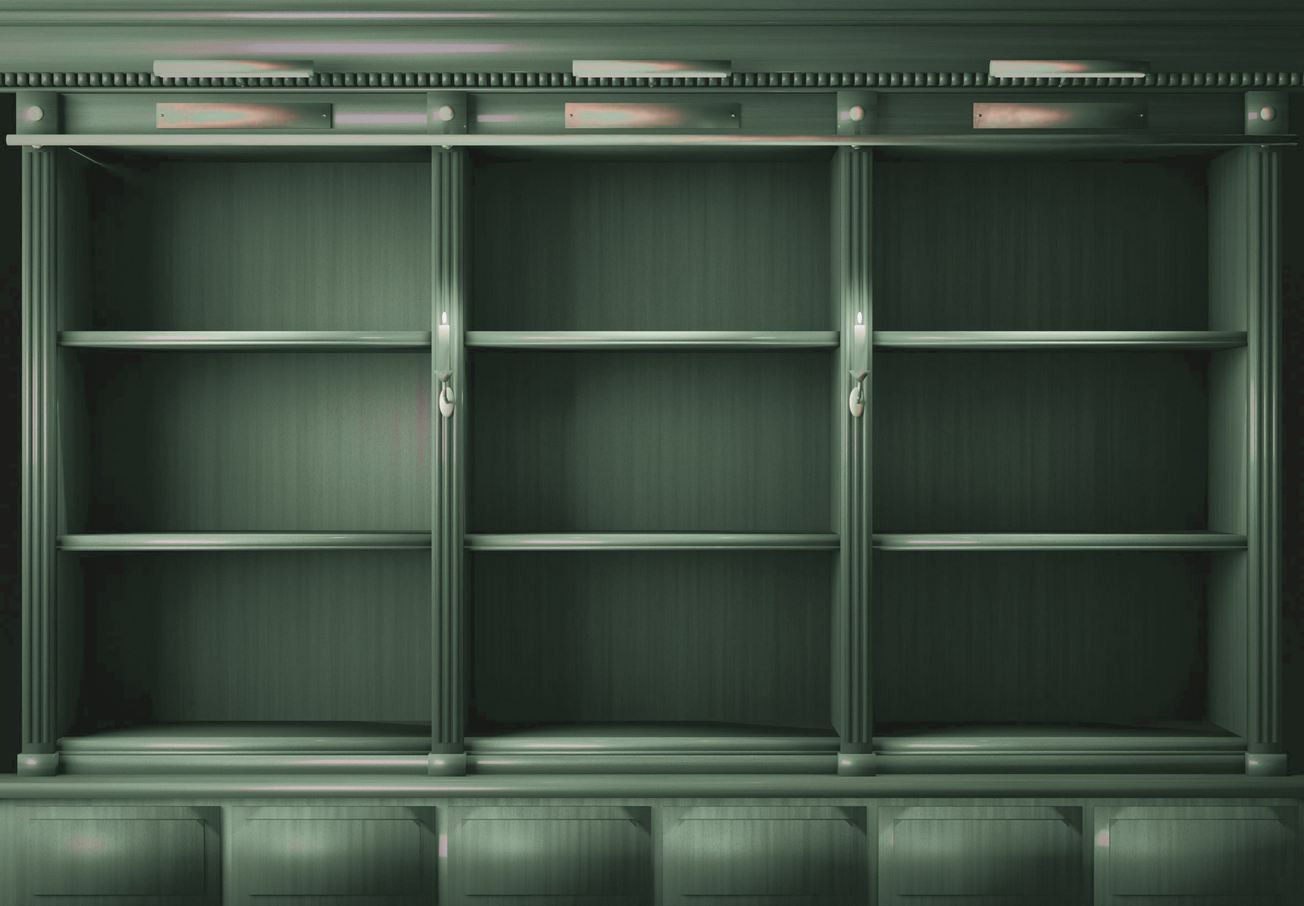
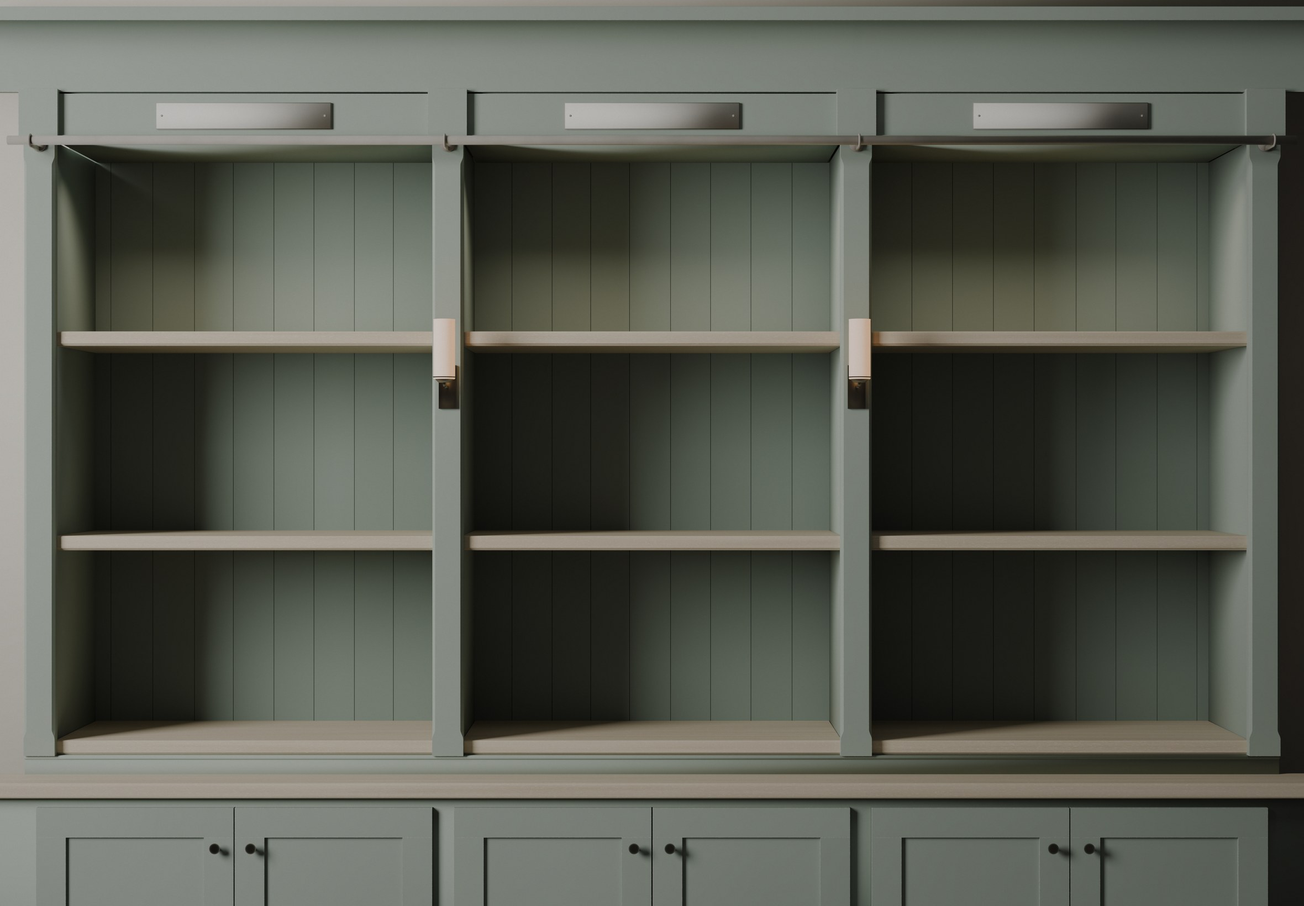
Sage theme: natively rendered painted-oak library replacing the tinted Sage & Rose
New Blender scenes (scene_wall_sage, scene_spines_sage, Sage branches of
scene_cat/scene_book), pewter/porcelain/bookcloth materials, rag paper,
per-theme geometry and ink-lettered bindings. Wisteria hidden from the picker.

diff --git a/index.html b/index.html
@@ -909,9 +909,46 @@ body.portrait:not(.compact) .topbar .lbl{display:none}
 .themecard .tdots i{width:14px;height:14px;border-radius:50%;box-shadow:0 0 0 1px rgba(255,255,255,.25)}
 .themecard .tcheck{position:absolute;right:12px;top:10px;color:var(--gilt);font:600 16px var(--f-ui)}
 
+
 /* ---- colour themes ---- */
-:root[data-theme=wisteria]{--c0:234,227,224;--c1:169,155,185;--c2:121,103,145;--c3:196,197,213;--c4:130,131,155;--c5:33,25,36;--c6:84,85,106;--c7:122,54,88;--c8:22,16,24;--c9:15,11,17;--c10:13,9,15;--c11:31,23,34;--c12:33,25,36;--c13:195,196,212;--c14:40,31,44;--c15:243,234,220;--c16:25,19,27;--c17:43,33,47;--c18:53,42,64;--c19:104,105,127;--c20:237,229,224;--c21:211,212,226;--c22:187,188,206;--c23:106,44,75;--c24:245,238,230;--c25:161,146,180;--c26:35,27,39;--c27:34,26,37;--c28:216,206,207;--c29:57,45,71;--c30:44,34,48;--c31:39,30,43;--c32:226,216,210;--c33:190,177,198;--c34:155,156,178;--c35:173,174,194;--c36:237,230,228;--c37:35,27,39;--c38:129,111,154;--c39:59,59,79;--c40:174,175,195;--c41:222,223,234;--c42:140,141,164;--c43:51,40,59;--c44:41,32,45;--c45:235,227,221;--c46:206,195,204;--c47:232,232,241;--c48:64,50,82;--c49:43,33,47;--c50:138,53,96;--c51:45,36,50;--c52:9,6,11;--c53:224,214,212;--c54:68,54,90;--c55:216,216,229;--c56:110,47,78;--c57:105,106,128;--c58:199,200,216;--c59:229,230,239;--c60:92,92,114;--c61:229,220,215;--c62:207,196,204;--c63:206,207,222;--c64:141,142,166;--c65:31,23,34;--c66:245,237,226;--c67:218,219,231;--c68:175,176,196;--c69:117,99,141;--c70:138,121,164;--c71:51,40,60;--c72:87,87,109;--c73:234,225,220;--c74:114,115,137;--c75:81,81,102;--c76:174,175,195;--c77:138,139,162;--c78:59,47,75;--c79:37,29,41;--c80:147,148,171;--c81:229,220,215;--c82:211,212,226;--c83:110,111,133;--c84:154,64,109;--c85:90,34,62;--c86:172,158,187;--c87:230,231,240;--c88:66,67,87;--c89:207,197,205;--c90:189,190,207;--c91:127,127,151;--c92:218,207,207;--c93:241,235,231;--c94:208,194,206;--c95:32,24,35;--c96:211,211,226;--c97:17,12,19;--c98:26,20,29;--c99:30,23,33;--c100:40,31,44;--c101:52,41,62;--c102:49,39,57;--c103:242,231,218;--c104:16,11,18;--c105:240,227,209;--c106:221,209,204;--c107:231,231,240;--c108:214,215,228;--c109:223,223,234;--c110:73,73,94;--c111:29,22,31;--c112:247,242,237;--c113:45,35,50;--c114:42,32,46;--c115:242,232,221;--c116:220,220,232;--c117:212,213,226;--c118:82,82,103;--c119:53,42,64;--c120:14,10,16;--c121:227,228,238;--c122:219,207,204;--c123:170,72,121;--c124:21,16,23;--c125:28,21,30;--c126:220,221,232;--c127:24,18,26;--c128:30,23,33;--c129:13,9,15;--c130:17,13,19;--c131:23,17,25;--c132:242,231,215;--c133:41,32,45;--c134:233,233,242;--c135:12,8,14;--c136:223,224,235;--c137:16,12,18;--c138:20,15,22;--c139:24,18,26;--c140:22,16,24;--c141:26,20,29;--c142:119,120,143;--c143:40,14,27;--c144:35,27,38;--c145:244,235,224;--c146:14,10,16;--c147:26,19,28;--c148:53,42,63;--c149:25,19,27;--c150:207,208,223;--c151:221,211,207;--c152:228,218,210;--c153:86,86,108;--c154:72,72,92;--u-parchment:url(themes/wisteria/parchment.jpg);--u-leather:url(themes/wisteria/ui_leather.png);--u-brass:url(themes/wisteria/ui_brass.png);--u-wallblur:url(themes/wisteria/wall_blur.jpg);color-scheme:dark}
-:root[data-theme=sage]{--c0:234,234,222;--c1:178,194,176;--c2:131,153,131;--c3:235,197,182;--c4:191,141,125;--c5:32,42,34;--c6:144,101,89;--c7:122,54,65;--c8:21,28,23;--c9:13,18,15;--c10:11,15,12;--c11:30,40,33;--c12:32,42,35;--c13:234,196,181;--c14:40,52,43;--c15:243,240,218;--c16:24,32,26;--c17:43,56,46;--c18:57,73,60;--c19:167,120,105;--c20:237,236,222;--c21:239,207,194;--c22:229,189,174;--c23:106,44,55;--c24:244,243,227;--c25:170,187,169;--c26:34,46,37;--c27:33,44,36;--c28:220,221,203;--c29:62,79,65;--c30:44,58,47;--c31:39,51,42;--c32:229,227,207;--c33:197,208,192;--c34:207,162,146;--c35:220,178,162;--c36:237,237,226;--c37:34,45,37;--c38:139,161,139;--c39:112,75,66;--c40:220,178,163;--c41:244,217,206;--c42:196,148,132;--c43:53,68,56;--c44:41,54,44;--c45:235,234,220;--c46:211,216,198;--c47:248,226,216;--c48:69,87,72;--c49:43,56,46;--c50:138,53,67;--c51:46,60,49;--c52:6,9,7;--c53:226,226,209;--c54:74,92,76;--c55:241,211,199;--c56:110,47,58;--c57:168,120,106;--c58:236,199,184;--c59:247,224,213;--c60:152,108,95;--c61:230,229,213;--c62:212,217,199;--c63:238,203,189;--c64:197,150,134;--c65:30,40,33;--c66:244,242,224;--c67:242,214,202;--c68:221,179,164;--c69:127,149,127;--c70:149,169,149;--c71:54,69,57;--c72:147,103,91;--c73:234,233,218;--c74:178,128,113;--c75:139,97,86;--c76:220,178,163;--c77:195,147,131;--c78:64,82,67;--c79:36,48,39;--c80:201,154,139;--c81:230,229,213;--c82:240,208,194;--c83:173,125,110;--c84:154,64,79;--c85:90,34,43;--c86:180,195,178;--c87:247,225,215;--c88:122,84,74;--c89:212,217,201;--c90:230,191,176;--c91:189,139,123;--c92:222,222,203;--c93:241,241,229;--c94:215,215,203;--c95:31,41,34;--c96:239,207,194;--c97:15,21,17;--c98:25,34,28;--c99:29,39,32;--c100:40,53,43;--c101:56,71,59;--c102:51,66,54;--c103:242,238,216;--c104:14,19,15;--c105:240,234,207;--c106:225,223,199;--c107:247,225,215;--c108:241,210,197;--c109:244,218,206;--c110:130,90,79;--c111:28,37,30;--c112:246,246,235;--c113:46,60,49;--c114:42,55,45;--c115:242,238,219;--c116:243,215,203;--c117:240,208,195;--c118:141,99,87;--c119:57,72,60;--c120:12,16,13;--c121:246,222,212;--c122:224,222,199;--c123:170,72,89;--c124:20,27,22;--c125:27,36,29;--c126:243,215,204;--c127:23,31,25;--c128:29,39,32;--c129:11,16,13;--c130:15,21,17;--c131:22,29,24;--c132:242,238,213;--c133:41,54,44;--c134:248,227,217;--c135:10,14,11;--c136:244,218,207;--c137:14,20,16;--c138:18,25,20;--c139:23,31,25;--c140:20,28,23;--c141:25,34,28;--c142:184,133,117;--c143:40,14,18;--c144:34,45,37;--c145:244,241,222;--c146:12,17,13;--c147:25,33,27;--c148:56,72,59;--c149:24,32,26;--c150:238,204,190;--c151:224,224,203;--c152:230,228,207;--c153:145,102,90;--c154:128,89,78;--u-parchment:url(themes/sage/parchment.jpg);--u-leather:url(themes/sage/ui_leather.png);--u-brass:url(themes/sage/ui_brass.png);--u-wallblur:url(themes/sage/wall_blur.jpg);color-scheme:dark}
+:root[data-theme=sage]{--c0:242,236,222;--c1:166,174,159;--c2:109,122,106;--c3:202,198,186;--c4:143,139,128;--c5:30,37,33;--c6:104,102,94;--c7:122,63,54;--c8:24,29,26;--c9:19,23,20;--c10:17,21,19;--c11:29,35,32;--c12:31,37,33;--c13:201,197,185;--c14:35,42,38;--c15:249,243,228;--c16:26,31,28;--c17:37,45,40;--c18:45,55,50;--c19:122,118,109;--c20:244,238,224;--c21:214,210,199;--c22:194,190,178;--c23:106,53,44;--c24:252,246,231;--c25:156,165,149;--c26:32,39,35;--c27:31,38,34;--c28:226,220,207;--c29:48,59,53;--c30:38,45,41;--c31:34,41,37;--c32:233,227,213;--c33:190,195,182;--c34:165,161,149;--c35:181,177,166;--c36:245,239,225;--c37:32,39,35;--c38:117,130,113;--c39:82,80,74;--c40:182,178,167;--c41:223,220,210;--c42:150,146,135;--c43:43,52,47;--c44:36,43,39;--c45:242,236,222;--c46:219,213,200;--c47:231,228,220;--c48:53,65,59;--c49:37,44,40;--c50:138,65,53;--c51:39,47,42;--c52:14,17,15;--c53:232,226,212;--c54:57,69,63;--c55:217,214,204;--c56:110,55,47;--c57:122,119,110;--c58:205,201,189;--c59:229,226,217;--c60:111,108,99;--c61:236,230,216;--c62:220,214,201;--c63:210,206,194;--c64:152,148,137;--c65:29,35,32;--c66:252,245,231;--c67:219,216,206;--c68:183,179,168;--c69:105,118,103;--c70:127,140,122;--c71:43,52,47;--c72:107,104,96;--c73:240,234,220;--c74:129,126,116;--c75:101,99,91;--c76:182,178,167;--c77:149,145,134;--c78:50,61,55;--c79:33,40,36;--c80:157,153,142;--c81:236,230,216;--c82:214,210,199;--c83:126,123,113;--c84:154,76,64;--c85:90,41,34;--c86:169,176,162;--c87:230,227,219;--c88:89,87,80;--c89:220,214,201;--c90:195,191,180;--c91:140,136,125;--c92:227,221,208;--c93:250,244,229;--c94:219,213,200;--c95:30,36,33;--c96:213,209,198;--c97:20,25,22;--c98:26,32,29;--c99:29,35,31;--c100:35,42,38;--c101:44,54,49;--c102:42,51,46;--c103:247,240,226;--c104:19,23,21;--c105:243,236,222;--c106:228,223,209;--c107:230,227,219;--c108:216,213,202;--c109:223,220,211;--c110:95,93,85;--c111:28,34,30;--c112:255,250,235;--c113:39,47,42;--c114:36,43,39;--c115:247,241,226;--c116:221,218,208;--c117:214,211,200;--c118:102,100,92;--c119:45,54,49;--c120:18,22,19;--c121:227,224,216;--c122:227,221,208;--c123:170,86,72;--c124:23,28,25;--c125:27,33,30;--c126:221,218,208;--c127:25,31,27;--c128:29,35,32;--c129:17,21,19;--c130:20,25,22;--c131:24,30,26;--c132:246,240,226;--c133:36,43,39;--c134:232,229,221;--c135:16,20,18;--c136:224,221,211;--c137:20,24,21;--c138:22,27,24;--c139:25,31,27;--c140:23,29,26;--c141:26,32,29;--c142:134,130,120;--c143:40,17,14;--c144:32,38,35;--c145:250,244,229;--c146:18,22,19;--c147:26,32,28;--c148:44,54,49;--c149:26,31,28;--c150:210,206,195;--c151:230,224,210;--c152:235,229,215;--c153:106,103,95;--c154:94,92,84;--u-parchment:url(themes/sage/parchment.jpg);--u-leather:url(themes/sage/ui_leather.png);--u-brass:url(themes/sage/ui_brass.png);--u-wallblur:url(themes/sage/wall_blur.jpg);color-scheme:dark}
+
+/* ================= Sage (SAGE_THEME_SPEC §2.2, §4.2-4.3, §5.1, §6.2) ================= */
+:root[data-theme=sage]{--surround:#121513;--text:#EEEBE2;--muted:#BDC1B5;--faint:#9CA397;--gilt:#CFCABB;--gilt-deep:#8E897C;--line:rgba(207,202,187,.24);--glass:rgba(30,37,33,.66);--glass-hi:rgba(44,53,48,.78);--ink:#262A26;--ink-muted:#5A5F55;--ink-red:#8E4A40;--ink-line:rgba(38,42,38,.28)}
+:root[data-theme=sage] .stage{background:#121513}
+:root[data-theme=sage] .topbar{background:linear-gradient(180deg,rgba(20,25,22,.72),rgba(20,25,22,0))}
+:root[data-theme=sage] .wordmark b,:root[data-theme=sage] .syncbtn{text-shadow:0 1px 2px rgba(0,0,0,.35)}
+:root[data-theme=sage] .primary{border:1px solid #7F7B70;background:linear-gradient(180deg,#EDEAE1 0%,#CBC6B8 48%,#A8A396 100%);color:#1E221F;box-shadow:inset 0 1px 0 rgba(255,255,250,.6),inset 0 -1px 0 rgba(60,58,50,.4),0 1px 2px rgba(0,0,0,.4);text-shadow:0 1px 0 rgba(255,255,255,.35)}
+:root[data-theme=sage] .primary:active{filter:brightness(.95);box-shadow:inset 0 2px 3px rgba(60,58,50,.4)}
+:root[data-theme=sage] .primary[disabled]{background:none;border-color:rgba(207,202,187,.3);color:rgba(238,235,226,.4);text-shadow:none;box-shadow:none}
+:root[data-theme=sage] .plate{color:#2E3A33;text-shadow:0 .5px 0 rgba(255,255,255,.4);font-family:"Cormorant Garamond",serif;font-weight:600;letter-spacing:.10em}
+:root[data-theme=sage] .shelf .genre-tag,:root[data-theme=sage] .shelf .range-tag{background:linear-gradient(#DAD6CB,#A9A498);color:#22261F;box-shadow:0 1px 1px rgba(0,0,0,.45),inset 0 0 0 .5px rgba(60,58,50,.5);text-shadow:none}
+:root[data-theme=sage] .divider{background:linear-gradient(90deg,#55534C,#C9C5B8 40%,#7D7A71)}
+:root[data-theme=sage] .spine .t{color:#E2DDCF;text-shadow:0 .055em 0 rgba(0,0,0,.55),0 -.04em 0 rgba(255,255,255,.16)}
+:root[data-theme=sage] .spine.light .t{color:#2A2B27;font-weight:inherit;background:none;box-shadow:none;text-shadow:0 .04em 0 rgba(255,255,255,.22)}
+:root[data-theme=sage] .spine.light .t::after{display:none}
+:root[data-theme=sage] .spine.plabel .t{color:#2B2A26;background:none;box-shadow:none;text-shadow:0 .04em 0 rgba(255,255,255,.25)}
+:root[data-theme=sage] .spine.lift::after,:root[data-theme=sage] .spine.found::after{background:linear-gradient(180deg,transparent 35%,rgba(245,242,232,.5) 50%,transparent 65%)}
+:root[data-theme=sage] .spine .fav{background:radial-gradient(circle at 40% 35%,#EAE6DA,#B9B4A6 55%,#77736A)}
+:root[data-theme=sage] .ribbon[data-tab=review]{background-color:#8E4A40!important}:root[data-theme=sage] .ribbon[data-tab=synopsis]{background-color:#4A5B68!important}:root[data-theme=sage] .ribbon[data-tab=quotes]{background-color:#4F5B45!important}:root[data-theme=sage] .ribbon[data-tab=notes]{background-color:#B39860!important;color:#262A26}
+:root[data-theme=sage] .sealdot{background:radial-gradient(circle at 40% 35%,#A35A4C,#7A3B32 60%,#5C2C25)}
+:root[data-theme=sage] ::selection{background:rgba(207,202,187,.35)}
+:root[data-theme=sage] .page textarea,:root[data-theme=sage] .pb textarea,:root[data-theme=sage] .writer{caret-color:#8E4A40}
+/* electric sconces: no flicker, no picture-light cones; a static glow that comes on with the room */
+:root[data-theme=sage] .flame,:root[data-theme=sage] .cone{display:none}
+:root[data-theme=sage] .halo{width:160px;height:220px;margin:-0px 0 0 30px;border-radius:50%;background:radial-gradient(ellipse,rgba(255,226,186,.16),rgba(255,214,170,.06) 40%,transparent 70%);mix-blend-mode:soft-light;animation:sageOn 1.2s cubic-bezier(.3,0,.2,1) both}
+@keyframes sageOn{from{opacity:0}to{opacity:1}}
+:root[data-theme=sage] .tod.evening{background:rgba(70,72,80,.10);mix-blend-mode:multiply}
+:root[data-theme=sage] .tod.morning{background:rgba(225,232,240,.07)}
+.dapple{position:absolute;inset:0;pointer-events:none;z-index:29;-webkit-mask-image:linear-gradient(100deg,#000 40%,transparent 85%);mask-image:linear-gradient(100deg,#000 40%,transparent 85%);mix-blend-mode:soft-light;opacity:.22;animation:dappleCloud 41s ease-in-out infinite alternate}
+.dapple b{position:absolute;left:-30px;top:-30px;width:1240px;height:880px;background:url(themes/sage/dapple.webp) center/cover;animation:dappleLeaf 23s ease-in-out infinite alternate}
+@keyframes dappleLeaf{from{transform:translate(-6px,-3px) rotate(-.4deg)}to{transform:translate(6px,3px) rotate(.4deg)}}
+@keyframes dappleCloud{from{opacity:.16}to{opacity:.26}}
+.tod.evening~.dapple,.wall.zoomed .dapple{display:none}
+@media (prefers-reduced-motion:reduce){.dapple,.dapple b{animation:none;opacity:.18}}
+.prop.vaseprop,.prop.noteprop,.prop.pebbleprop{position:absolute;bottom:0;pointer-events:none}
+:root[data-theme=sage] .prop.bookend{background:linear-gradient(90deg,#B9A783,#D3C4A6 40%,#B9A783);box-shadow:inset 0 1px 0 rgba(255,255,255,.4),2px 0 3px rgba(0,0,0,.35);border-radius:1px}
+:root[data-theme=sage] .prop.bookend::after{background:#A9A498}
 
 </style>
 </head>
@@ -944,13 +981,16 @@ const FORMATS = ['Hardback', 'Paperback', 'Ebook', 'Audiobook', 'Library loan', 
 const COLORS = SPR.colors;          // binding colours, same order as the sprite atlas columns
 const STYLES = SPR.styles;          // antique | smooth | label
 /* ---------- colour themes: the classic mahogany room plus recoloured sets under themes/<id>/ ---------- */
-const THEMES = {"classic": {"name": "Classic Mahogany", "blurb": "The original \u2014 polished mahogany, brass lamps, candlelight", "swatch": ["#4a2616", "#c9a45a", "#e9dcc0"], "colors": [], "chrome": "#0b0c0c"}, "wisteria": {"name": "Wisteria Dusk", "blurb": "Dusky plum lacquer, pewter silver, lavender lamplight", "swatch": ["#3a2a45", "#8a7aa6", "#c9c1d8"], "colors": ["#2f1b30", "#4b3d58", "#452b36", "#19182c", "#411e35", "#594145", "#373244", "#132123", "#1c2824", "#181d2d", "#1f2030", "#532a2f", "VELLUM"], "chrome": "#0b0c0c"}, "sage": {"name": "Sage & Rose", "blurb": "Soft sage lacquer, rose-gold, linen and blush", "swatch": ["#52695a", "#d3a39a", "#ece4d2"], "colors": [], "chrome": "#0b0c0c"}};
+const THEMES = {"classic": {"name": "Classic Mahogany", "blurb": "The original \u2014 polished mahogany, brass lamps, candlelight", "swatch": ["#4a2616", "#c9a45a", "#e9dcc0"], "colors": [], "chrome": "#0b0c0c"}, "sage": {"name": "Sage", "blurb": "Painted sage joinery, limed oak, pewter and afternoon light", "swatch": ["#8E9A88", "#CFCABB", "#EEE8DA"], "colors": ["#4f4135", "#85765d", "#8a857c", "#252622", "#785148", "#7d7a76", "#43383f", "#373c2d", "#71756b", "#232b38", "#414b52", "#693e31", "VELLUM"], "chrome": "#0b0c0c", "light": [1, 2, 5, 8, 12], "geo": {"flames": [[402.1, 316.0], [777.9, 316.0]], "hoods": [], "sun": [[0, 0], [760, 0], [520, 820], [0, 820]], "ladder": {"x": 847.5, "y": 117.5, "x1": 966.0, "y1": 820.0, "cx": 885.5}}}};
 const CLASSIC_COLORS = COLORS.slice();
+const GEO_THEMED = ['flames', 'hoods', 'ladder', 'sun'], GEO_CLASSIC = Object.fromEntries(GEO_THEMED.map((k) => [k, GEO[k]]));
+function lightBinding(ci) { const t = THEMES[themeId()]; return t && t.light ? t.light.includes(ci) : COLORS[ci] === 'VELLUM'; } // bindings lettered in ink rather than foil
 function themeId() { const t = S.settings && S.settings.theme; return t && t !== 'classic' && THEMES[t] ? t : 'classic'; }
 function T(f) { const t = themeId(); return t === 'classic' ? f : 'themes/' + t + '/' + f; }
 function applyTheme() {
   const t = themeId(); document.documentElement.dataset.theme = t;
   COLORS.splice(0, COLORS.length, ...(t === 'classic' ? CLASSIC_COLORS : THEMES[t].colors));
+  for (const k of GEO_THEMED) { const v = t !== 'classic' && THEMES[t].geo && k in THEMES[t].geo ? THEMES[t].geo[k] : GEO_CLASSIC[k]; if (v === undefined) delete GEO[k]; else GEO[k] = v; }
   const m = document.querySelector('meta[name=theme-color]'); if (m && THEMES[t]) m.setAttribute('content', THEMES[t].chrome);
 }
 const PXM = GEO.shelves[0].pxm;     // css px per metre at the spine plane
@@ -1590,8 +1630,9 @@ function fitZh(b, W, H, style, minF) {
   return null;
 }
 function spineFitFor(b, base, style) {
-  const lightSp = COLORS[binding(b).color] === 'VELLUM' && style !== 'label';
-  const key = [b.id, b.title, b.spineTitle, b.series, base.w, base.h, style, NOCAPS, lightSp, FORCEW].join('|');
+  const lightSp = lightBinding(binding(b).color) && style !== 'label';
+  const themeK = themeId();
+  const key = [b.id, b.title, b.spineTitle, b.series, base.w, base.h, style, NOCAPS, lightSp, FORCEW, themeK].join('|');
   let r = fitCache.get(key); if (r) return r;
   LIGHT = lightSp; try { r = spineFitInner(b, base, style); } finally { LIGHT = false; }
   fitCache.set(key, r); return r;
@@ -1636,8 +1677,10 @@ function spineHTML(b, d, extraCls, lean) {
   const cw = SPR.cw, ch = SPR.ch;
   const kx = d.w / cw, ky = d.h / ch;
   const style = STYLES[row];
-  const vellum = COLORS[col] === 'VELLUM';
-  const light = vellum && style !== 'label';
+  const sage = themeId() === 'sage';
+  const vellum = COLORS[col] === 'VELLUM' && !sage;
+  const light = (sage ? lightBinding(col) : vellum) && style !== 'label';
+  const plabel = sage && style === 'label'; // Sage: printed paper label, lettered in ink
   const tint = vellum && style !== 'label' ? SPINE_TINTS[Math.floor(rnd(styleKey(b), 'tint') * SPINE_TINTS.length)] : '';
   const f = d.fit || spineFitFor(b, d, style).f;
   const fam = f.zh ? 'zh' : famFor(f.fs);
@@ -1650,7 +1693,7 @@ function spineHTML(b, d, extraCls, lean) {
   const tilt = !lean && rnd(b.id, 'tilt') < 0.15 ? (rnd(b.id, 'td') - 0.5) * 1.2 : 0;
   const leanCss = lean ? `transform:rotate(${lean}deg);margin-left:9px;` : tilt ? `transform:rotate(${tilt.toFixed(2)}deg);` : '';
   const label = `${b.title}${b.author ? ', ' + b.author : ''}${status(b) === 'want' ? ', want to read' : ''}${b.lentTo ? ', lent to ' + b.lentTo : ''}`;
-  return `<button class="spine ${extraCls || ''} ${lean ? 'lean' : ''} ${light ? 'light' : ''} ${tint ? 'tinted' : ''} ${vellum && style === 'label' ? 'vlabel' : ''}" ${tint ? `data-tint="${tint}"` : ''} data-act="spine" data-id="${esc(b.id)}" aria-label="${esc(label)}" style="width:${d.w}px;height:${d.h}px;background-image:url(${T('spines.webp')});background-size:${(SPR.cols * cw * kx).toFixed(1)}px ${(SPR.rows * ch * ky).toFixed(1)}px;background-position:-${(col * cw * kx).toFixed(1)}px -${(row * ch * ky).toFixed(1)}px;${leanCss}">${t}${marks}</button>`;
+  return `<button class="spine ${extraCls || ''} ${lean ? 'lean' : ''} ${light ? 'light' : ''} ${tint ? 'tinted' : ''} ${vellum && style === 'label' ? 'vlabel' : ''} ${plabel ? 'plabel' : ''}" ${tint ? `data-tint="${tint}"` : ''} data-act="spine" data-id="${esc(b.id)}" aria-label="${esc(label)}" style="width:${d.w}px;height:${d.h}px;background-image:url(${T('spines.webp')});background-size:${(SPR.cols * cw * kx).toFixed(1)}px ${(SPR.rows * ch * ky).toFixed(1)}px;background-position:-${(col * cw * kx).toFixed(1)}px -${(row * ch * ky).toFixed(1)}px;${leanCss}">${t}${marks}</button>`;
 }
 
 function wallInner(L, page) {
@@ -1912,13 +1955,14 @@ function hi(text, q) { // the matched part in gilt
 }
 
 /* ================= the room is alive: candles, light, dust, ladder, props, seals, letters, sound ================= */
-const FLAMES = GEO.flames || [[402.1, 287.5], [777.9, 287.5]];
-const HOODS = GEO.hoods || [[212, 61.7], [590, 61.7], [968, 61.7]];
+const FLAMES0 = [[402.1, 287.5], [777.9, 287.5]], HOODS0 = [[212, 61.7], [590, 61.7], [968, 61.7]];
+const flamesNow = () => GEO.flames || FLAMES0, hoodsNow = () => GEO.hoods || HOODS0; // per theme (Sage: sconces, no hoods)
 const PILS = GEO.pils || [34.3, 404.8, 775.2, 1145.7];
 function atmosphereHTML() {
   let h = '<div class="atmos" aria-hidden="true">';
-  HOODS.forEach(([x, y], i) => { h += `<i class="cone" style="left:${(x - 160).toFixed(1)}px;top:${(y + 10).toFixed(1)}px;animation-delay:${-i * 3.1}s"></i>`; });
-  FLAMES.forEach(([x, y], i) => { h += `<i class="halo" style="left:${(x - 110).toFixed(1)}px;top:${(y - 110).toFixed(1)}px;animation-delay:${-i * 1.7}s"></i><i class="flame" style="left:${(x - 3).toFixed(1)}px;top:${(y - 9).toFixed(1)}px;animation-delay:${-i * 2.3}s,${-i * 1.1}s"></i>`; });
+  hoodsNow().forEach(([x, y], i) => { h += `<i class="cone" style="left:${(x - 160).toFixed(1)}px;top:${(y + 10).toFixed(1)}px;animation-delay:${-i * 3.1}s"></i>`; });
+  flamesNow().forEach(([x, y], i) => { h += `<i class="halo" style="left:${(x - 110).toFixed(1)}px;top:${(y - 110).toFixed(1)}px;animation-delay:${-i * 1.7}s"></i><i class="flame" style="left:${(x - 3).toFixed(1)}px;top:${(y - 9).toFixed(1)}px;animation-delay:${-i * 2.3}s,${-i * 1.1}s"></i>`; });
+  if (GEO.sun) h += `<i class="dapple" style="clip-path:polygon(${GEO.sun.map(([x, y]) => x + 'px ' + y + 'px').join(',')})"><b></b></i>`; // Sage: leaf shadow in the window light
   h += `<canvas class="dust" id="dust" width="10" height="10"></canvas></div>`;
   return h;
 }
@@ -1949,6 +1993,11 @@ function propHTML(sh, x, shelfH) {
     const bs = S.books.slice(0, 40); const pick = [0, 1, 2].map((i) => bs[(hash(sh.sec + i) % Math.max(1, bs.length))]).filter(Boolean);
     return `<span class="prop stack" style="left:${left}px">${pick.map((b, i) => `<i style="${spineCrop(b, 20, 118)};bottom:${i * 20}px;left:${(rnd(b.id, 'sx') - 0.5) * 8}px"></i>`).join('')}</span>`;
   }
+  if (themeId() === 'sage') {
+    if (k === 'hourglass') return `<span class="prop vaseprop" style="left:${left}px">${SVG.vase}</span>`;
+    if (k === 'letter') return `<span class="prop noteprop" style="left:${left}px">${SVG.note}</span>`;
+    if (k === 'candle') return `<span class="prop pebbleprop" style="left:${left}px">${SVG.pebble}</span>`;
+  }
   if (k === 'hourglass') return `<span class="prop hourglass" style="left:${left}px">${SVG.hourglass}</span>`;
   if (k === 'letter') return `<span class="prop letterprop" style="left:${left}px">${SVG.letter}</span>`;
   if (k === 'candle') return `<span class="prop candleprop" style="left:${left}px">${SVG.candle}</span>`;
@@ -1966,6 +2015,9 @@ const SVG = {
   seal: '<svg width="22" height="22" viewBox="0 0 24 24" fill="none" stroke="currentColor" stroke-width="1.5" aria-hidden="true"><path d="M12 3.5l1.6 1.2 2-.3.9 1.8 1.8.9-.3 2 1.2 1.6-1.2 1.6.3 2-1.8.9-.9 1.8-2-.3L12 20l-1.6-1.2-2 .3-.9-1.8-1.8-.9.3-2L4.8 12.8 6 11.2l-.3-2 1.8-.9.9-1.8 2 .3Z"/><circle cx="12" cy="12" r="3.4"/></svg>',
   envelope: '<svg width="22" height="22" viewBox="0 0 24 24" fill="none" stroke="currentColor" stroke-width="1.5" stroke-linejoin="round" aria-hidden="true"><rect x="3" y="5.5" width="18" height="13" rx="1.2"/><path d="M3.5 6.5l8.5 7 8.5-7"/></svg>',
   drawer: '<svg width="20" height="20" viewBox="0 0 24 24" fill="none" stroke="currentColor" stroke-width="1.5" stroke-linejoin="round" aria-hidden="true"><rect x="3" y="4" width="18" height="16" rx="1.4"/><rect x="8.5" y="7.5" width="7" height="3.6" rx=".4"/><path d="M10 15.5c0 1.2 4 1.2 4 0"/></svg>',
+  vase: '<svg width="34" height="96" viewBox="0 0 34 96" aria-hidden="true"><defs><linearGradient id="vz" x1="0" x2="1"><stop offset="0" stop-color="#9FAA97"/><stop offset=".45" stop-color="#C9D1C0"/><stop offset="1" stop-color="#8E9986"/></linearGradient></defs><path d="M17 40 C17 26 13 18 9 6 M17 40 C18 28 22 20 27 10 M17 42 C16 30 19 22 16 2" stroke="#6E7A62" stroke-width="1" fill="none"/><g fill="#9AA58E"><ellipse cx="9" cy="10" rx="3" ry="6" transform="rotate(-25 9 10)"/><ellipse cx="26" cy="14" rx="2.6" ry="5.5" transform="rotate(30 26 14)"/><ellipse cx="16" cy="6" rx="2.4" ry="5" fill="#7F8B74"/><ellipse cx="12" cy="22" rx="2.2" ry="4.5" transform="rotate(-35 12 22)" fill="#7F8B74"/><ellipse cx="22" cy="26" rx="2.2" ry="4.4" transform="rotate(35 22 26)"/></g><path d="M13 42h8v6c0 2 6 6 6 18 0 14-4 28-10 28S7 80 7 66c0-12 6-16 6-18z" fill="url(#vz)"/><path d="M11 56c0 10 1 22 3 28" stroke="rgba(255,255,255,.35)" stroke-width="1.6" fill="none"/></svg>',
+  note: '<svg width="58" height="40" viewBox="0 0 58 40" aria-hidden="true"><path d="M2 38 L4 8 L54 4 L56 34 Z" fill="#EEE8DA" stroke="rgba(60,58,50,.25)" stroke-width=".6"/><path d="M4 8 L29 22 L54 4" fill="none" stroke="rgba(60,58,50,.18)" stroke-width=".6"/><path d="M30 5 L31 37 M3 22 L56 19" stroke="#D8CFBC" stroke-width="1.4" fill="none"/><path d="M28 19c-6-6-9-2-4 1 M33 19c6-6 9-2 4 1" stroke="#D8CFBC" stroke-width="1.2" fill="none"/></svg>',
+  pebble: '<svg width="56" height="26" viewBox="0 0 56 26" aria-hidden="true"><defs><radialGradient id="pb" cx=".4" cy=".35" r=".7"><stop offset="0" stop-color="#B7B4AC"/><stop offset="1" stop-color="#8A877F"/></radialGradient></defs><ellipse cx="28" cy="23" rx="24" ry="3" fill="rgba(0,0,0,.25)"/><path d="M5 18c0-9 12-14 25-14s22 5 22 11-9 8-24 8S5 23 5 18z" fill="url(#pb)"/><path d="M16 9c6-3 15-3 20-1" stroke="rgba(255,255,255,.25)" stroke-width="1.4" fill="none"/></svg>',
   palette: '<svg width="22" height="22" viewBox="0 0 24 24" fill="none" stroke="currentColor" stroke-width="1.5" stroke-linecap="round" stroke-linejoin="round" aria-hidden="true"><path d="M12 3.2a8.8 8.8 0 1 0 0 17.6c1.3 0 1.9-.9 1.9-1.8 0-.5-.2-.9-.5-1.3-.3-.4-.5-.8-.5-1.3 0-1 .8-1.8 1.9-1.8h2.2a3.2 3.2 0 0 0 3.2-3.2C20.2 6.7 16.5 3.2 12 3.2z"/><circle cx="7.6" cy="11.4" r="1.1"/><circle cx="10.2" cy="7.4" r="1.1"/><circle cx="14.6" cy="7.2" r="1.1"/></svg>',
   gear: '<svg width="22" height="22" viewBox="0 0 24 24" fill="none" stroke="currentColor" stroke-width="1.5" aria-hidden="true"><circle cx="12" cy="12" r="3.2"/><path d="M12 2.8v2.4M12 18.8v2.4M2.8 12h2.4M18.8 12h2.4M5.5 5.5l1.7 1.7M16.8 16.8l1.7 1.7M5.5 18.5l1.7-1.7M16.8 7.2l1.7-1.7"/></svg>',
   dice: '<svg width="22" height="22" viewBox="0 0 24 24" fill="none" stroke="currentColor" stroke-width="1.5" aria-hidden="true"><rect x="4" y="4" width="16" height="16" rx="3"/><circle cx="9" cy="9" r="1" fill="currentColor"/><circle cx="15" cy="15" r="1" fill="currentColor"/><circle cx="15" cy="9" r="1" fill="currentColor"/><circle cx="9" cy="15" r="1" fill="currentColor"/></svg>',

diff --git a/sw.js b/sw.js
@@ -1,7 +1,7 @@
 /* The Library — service worker.
  * Bump VERSION on every deploy that changes any precached file, so clients pick up the new shell.
  */
-const VERSION = 'lib-v41';
+const VERSION = 'lib-v43';
 
 const SHELL_CACHE = 'shell-' + VERSION;
 const COVERS_CACHE = 'covers';          // shared across versions, capped below
